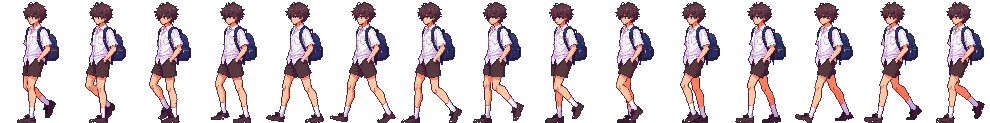
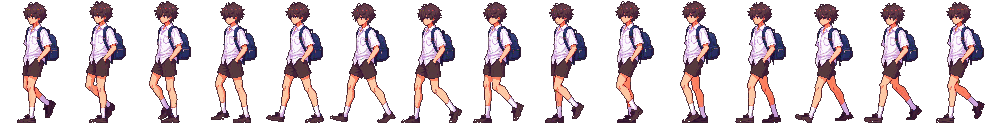
Walk: add back an even 1px bob for weight
A dead-level upper body glided. --bob adds a regular dip where the legs are
widest (foot lands) and a rise where they pass, never more than 1px per frame,
instead of the source's uneven 3px pop.

Claude-Session: https://claude.ai/code/session_011NAKRUA9btL4iodwTEM3Dh

diff --git a/tools/steady_walk_head.py b/tools/steady_walk_head.py
@@ -9,8 +9,13 @@ kept the head still but left the hips bouncing, so the torso stretched and squas
 The cut is the run of thigh rows that looks most like its neighbours; the legs differ
 every frame anyway, so it doesn't show. Feet and the ground line are untouched.
 
+--bob then adds back an even bob for weight (a dead-level body glides): per frame,
+pixels down: down 1px where the legs are widest (the foot lands), up 1px where they
+pass each other.
+
 Usage:
-  python3 tools/steady_walk_head.py assets/characters/hero_walk.png --frames 15
+  python3 tools/steady_walk_head.py assets/characters/hero_walk.png --frames 15 \\
+      --bob 0 -1 -1 0 0 1 1 0 0 -1 -1 0 1 1 0
 """
 import argparse
 
@@ -60,6 +65,7 @@ def main():
     ap.add_argument("--frames", type=int, required=True)
     ap.add_argument("--cut", type=int, nargs=2, default=(80, 96), metavar=("FROM", "TO"),
                     help="rows to cut in: the thighs, below the shorts and above the knees")
+    ap.add_argument("--bob", type=int, nargs="+", help="pixels down per frame after levelling")
     ap.add_argument("--out", help="default: overwrite the sheet")
     args = ap.parse_args()
 
@@ -68,6 +74,9 @@ def main():
     frames = [a[:, i * w:(i + 1) * w] for i in range(args.frames)]
     ref = np.median(np.stack(frames), 0)
     shifts = [offset(ref, f) for f in frames]
+    if args.bob:
+        assert len(args.bob) == args.frames, "one --bob value per frame"
+        shifts = [d + b for d, b in zip(shifts, args.bob)]
     print("upper body moved by", shifts)
     out = np.concatenate([steady(f, dy, *args.cut) for f, dy in zip(frames, shifts)], 1)
     Image.fromarray(out.astype(np.uint8), "RGBA").save(args.out or args.sheet)

diff --git a/README.md b/README.md
@@ -124,12 +124,15 @@ python3 tools/make_idle_anim.py assets/characters/hero_uniform.png assets/charac
 python3 tools/import_walk_video.py art_source/hero_walk_greenscreen.mp4 assets/characters/hero_walk.png \
     --start 20 --cycle 30 --height 122 --palette assets/characters/hero_uniform.png \
     --frames 15 --shoe-scale 0.8
-python3 tools/steady_walk_head.py assets/characters/hero_walk.png --frames 15
+python3 tools/steady_walk_head.py assets/characters/hero_walk.png --frames 15 \
+    --bob 0 -1 -1 0 0 1 1 0 0 -1 -1 0 1 1 0
 ```
 
 ขั้นที่สอง: ช่วงบนในวิดีโอเด้งขึ้น 2-3px บางเฟรม (หลังก้าว) ในเกมจึงดูกระเด้ง
 `steady_walk_head.py` วัดว่าช่วงหัว-อกแต่ละเฟรมห่างจากค่ากลางของทุกเฟรมเท่าไร แล้วเลื่อนทั้งตัวเหนือต้นขา (หัว เสื้อ กระเป๋า กางเกง) ไปพร้อมกัน
 ซ่อน/ซ้ำแถวที่ต้นขา (ขาเปลี่ยนทุกเฟรมอยู่แล้ว จึงไม่เห็นรอย) ถ้าตัดกลางเสื้อ หัวจะนิ่งแต่สะโพกยังเด้ง ตัวเลยยืดหด เท้าและแนวพื้นไม่ถูกแตะ
+แล้ว `--bob` ใส่การยุบ-ยืดกลับเข้าไปแบบสม่ำเสมอให้มีน้ำหนัก (ตัวนิ่งสนิทดูเหมือนลอยไถล): ลง 1px ตอนขากางสุด (เท้าลงพื้น เฟรม 5-6, 12-13)
+ขึ้น 1px ตอนขาสวนกัน (เฟรม 1-2, 9-10) ขยับทีละไม่เกิน 1px ต่อเฟรม
 
 วิดีโอต้องเป็นตัวละครเดินอยู่กับที่ (กล้องนิ่ง) สคริปต์ตัดหนึ่งรอบก้าว (`--cycle` เฟรม) เลือกมา `--frames` เฟรม
 ลบพื้นเขียว แบ่งสีภาพยืน (`--palette`) เป็นกลุ่มวัสดุ (ผม ผิว เสื้อ กางเกง กระเป๋า ...)
